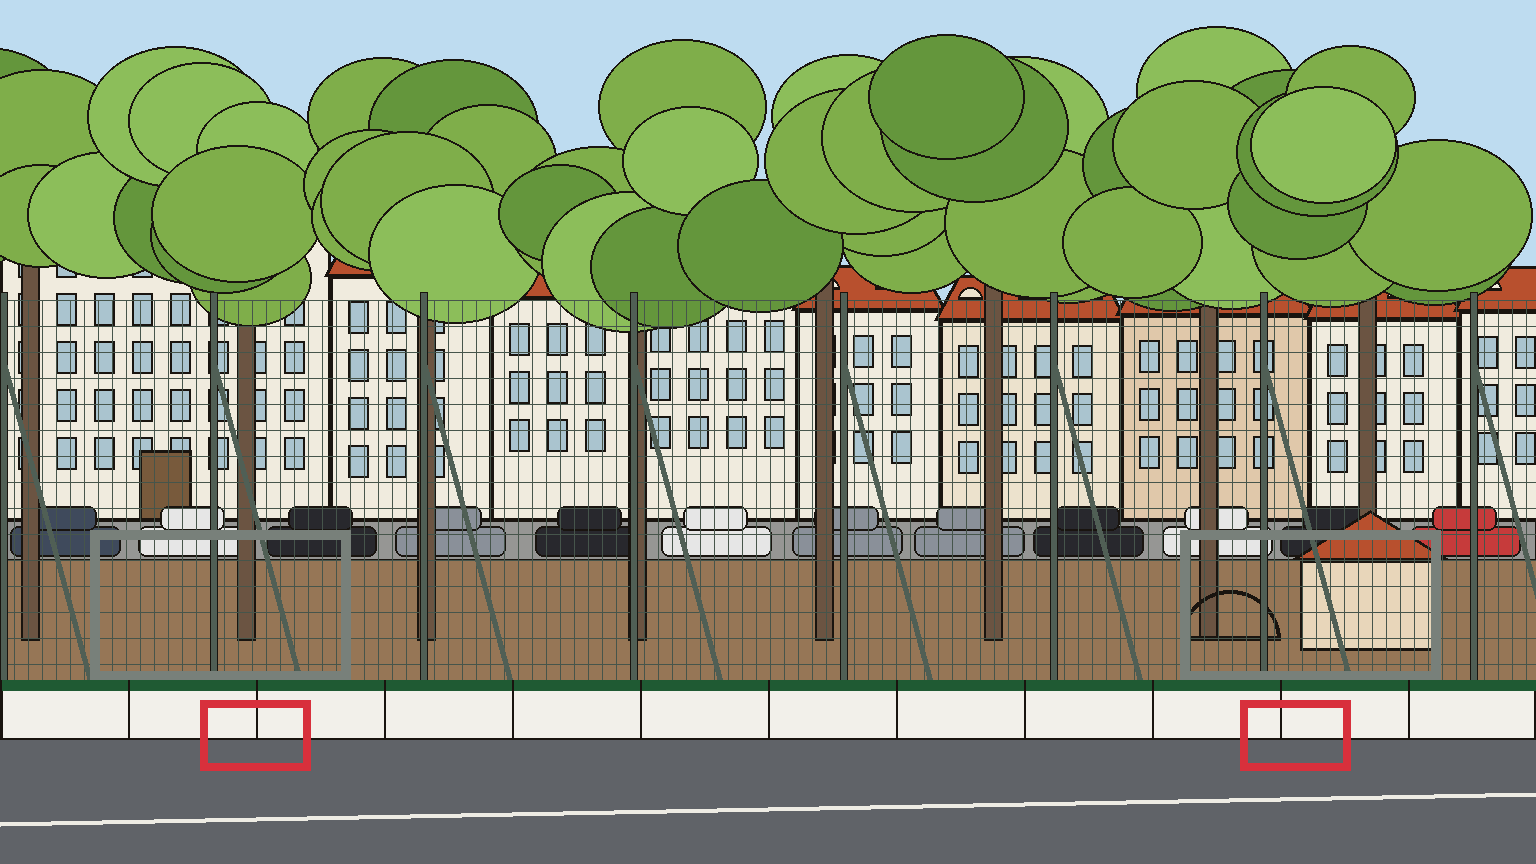
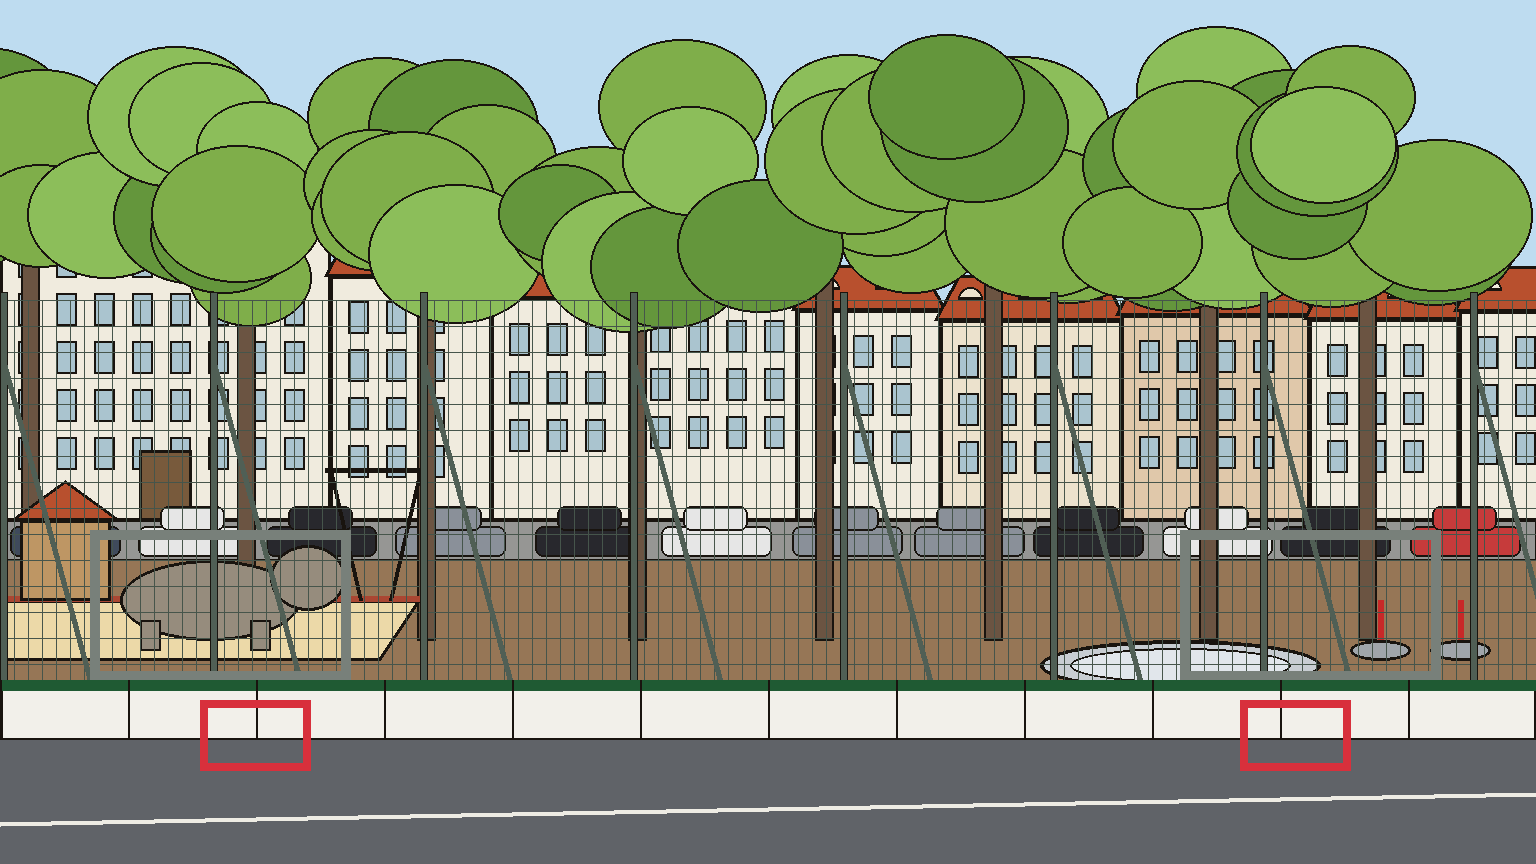
Boni site: court is left of the steel bowl, sand playground with wooden hippo to its left (confirmed by the club); updated sketch and prompt
Claude-Session: https://claude.ai/code/session_012w45xmR5wK2jym8RrJZRMa

Changed region(s): [[0.0, 0.5625, 0.2812, 0.7812], [0.6875, 0.5938, 0.9688, 0.8125], [0.2188, 0.5312, 0.2812, 0.5625]]

diff --git a/tools/art/venue/boni_blockout.py b/tools/art/venue/boni_blockout.py
@@ -41,10 +41,22 @@ for tx in range(60, W, 190):
         r = random.randint(60, 95)
         ox, oy = tx + random.randint(-90, 90), random.randint(90, 280)
         d.ellipse([ox - r, oy - r * 0.8, ox + r, oy + r * 0.8], fill=random.choice([(127, 174, 74), (100, 150, 60), (140, 190, 90)]), outline=K, width=2)
-# playground at the right end: red-roof hut and the dome climbing frame
-d.rectangle([1300, 560, 1440, 650], fill=(232, 214, 186), outline=K, width=3)
-d.polygon([(1290, 560), (1370, 510), (1450, 560)], fill=(184, 80, 46), outline=K, width=3)
-d.chord([1180, 590, 1280, 690], 180, 360, outline=K, width=4)
+# left (north-west) behind the fence: the sand playground with the wooden hippo sculpture,
+# a red brick border, a swing and the play house with a red roof
+d.polygon([(0, 600), (420, 600), (380, 660), (0, 660)], fill=(236, 217, 168), outline=K, width=3)   # sand
+d.line([(0, 598), (420, 598)], fill=(170, 70, 50), width=6)                                    # brick border
+d.ellipse([120, 560, 300, 640], fill=(150, 140, 125), outline=K, width=3)                      # hippo body (wood)
+d.ellipse([270, 545, 345, 610], fill=(150, 140, 125), outline=K, width=3)                      # hippo head
+d.rectangle([140, 620, 160, 650], fill=(150, 140, 125), outline=K, width=2); d.rectangle([250, 620, 270, 650], fill=(150, 140, 125), outline=K, width=2)
+d.line([(330, 470), (360, 600)], fill=K, width=4); d.line([(420, 470), (390, 600)], fill=K, width=4); d.line([(325, 470), (425, 470)], fill=K, width=5)  # swing frame
+d.rectangle([20, 520, 110, 600], fill=(190, 150, 100), outline=K, width=3)                     # play house
+d.polygon([(10, 520), (65, 480), (120, 520)], fill=(184, 80, 46), outline=K, width=3)
+# right (south-east), right next to the fence: the stainless steel bowl ("Schale") and spinning tops
+d.ellipse([1040, 640, 1320, 690], fill=(200, 205, 210), outline=K, width=4)
+d.ellipse([1070, 648, 1290, 682], fill=(225, 230, 235), outline=K, width=2)
+for kx in (1380, 1460):
+    d.line([(kx, 600), (kx, 660)], fill=(200, 40, 40), width=6)
+    d.ellipse([kx - 30, 640, kx + 30, 660], fill=(160, 165, 170), outline=K, width=3)
 # tall welded-mesh ball-stop fence with posts, diagonal struts and two built-in steel football goals
 ft, fb = 300, 680
 for gx in range(0, W, 14):

diff --git a/docs/BONI_ORT.md b/docs/BONI_ORT.md
@@ -16,8 +16,8 @@
 - **Nordost:** Gründerzeit-Häuserzeile (4–5 Geschosse, rote Ziegeldächer, Gauben). Nördlich steht die **Bonifatiusschule** (großer Bau, rotes Dach).
 - **Südwest:** die **Ricarda-Huch-Schule** und Wohnhäuser.
 - **Südost:** jenseits der Kollenrodtstraße die **Comeniusschule** (historisch, Rundbogenfenster).
-- **In der Grünfläche:** Rindenmulch, große Linden und Platanen, ein Kuppel-Klettergerüst, eine Edelstahl-Drehschale, Drehkreisel, ein Sandkasten mit dem Holz-Nilpferd, ein Spielhaus mit rotem Dach, Bänke und ein kleines Häuschen mit rotem Dach am Südostende.
-- **Bolzplatz:** gepflasterte bzw. asphaltierte Fläche im mittleren Teil, schräg zur Längsachse, neben dem Kuppelgerüst. Ringsum steht ein hoher Stabmattenzaun mit Schrägstreben und eingebauten Stahl-Fußballtoren.
+- **In der Grünfläche:** Rindenmulch, große Linden und Platanen, ein Kuppel-Klettergerüst, die Edelstahl-Schale (die glänzende Stelle im Luftbild), Drehkreisel, ein Sandkasten mit dem Holz-Nilpferd, ein Spielhaus mit rotem Dach, Bänke und ein kleines Häuschen mit rotem Dach am Südostende.
+- **Bolzplatz (vom Verein bestätigt):** die Asphaltfläche **links neben der Edelstahl-Schale**, also nordwestlich davon. Die glänzende Stelle im Luftbild ist die Schale. **Links neben dem Bolzplatz** liegt der **Sandspielplatz mit der Holz-Nilpferd-Skulptur** (Klinker-Einfassung, Schaukel, Spielhaus mit rotem Dach). Reihenfolge von Nordwest nach Südost: Sandspielplatz mit Nilpferd, Bolzplatz, Schale, übriger Spielbereich, Häuschen mit rotem Dach. Ringsum steht ein hoher Stabmattenzaun mit Schrägstreben und eingebauten Stahl-Fußballtoren.
 
 ## Spielansicht
 Die Kamera steht an der Südwest-Langseite des Bolzplatzes und schaut nach Nordosten. Von dort sieht man:
@@ -26,6 +26,7 @@ Die Kamera steht an der Südwest-Langseite des Bolzplatzes und schaut nach Nordo
 - Mulch und Linden
 - die Straße mit Parkreihe
 - die Häuserzeile, links die Bonifatiusschule
-- rechts das Häuschen mit rotem Dach und das Kuppelgerüst
+- links (Nordwest) hinter dem Zaun den Sandspielplatz mit Nilpferd, Schaukel und Spielhaus
+- rechts (Südost) direkt am Zaun die Edelstahl-Schale und die Drehkreisel
 
 Die Skizze `docs/ort/boni_skizze.png` (erzeugt von `tools/art/venue/boni_blockout.py`) legt diese Anordnung fest. Die Bild-KI zeichnet sie im Ligne-claire-Stil nach (`tools/art/venue/pollinations_edit.py`, Modell `microsoft/mai-image-2.7`, Beschreibung in `boni_backdrop_prompt.txt`).
